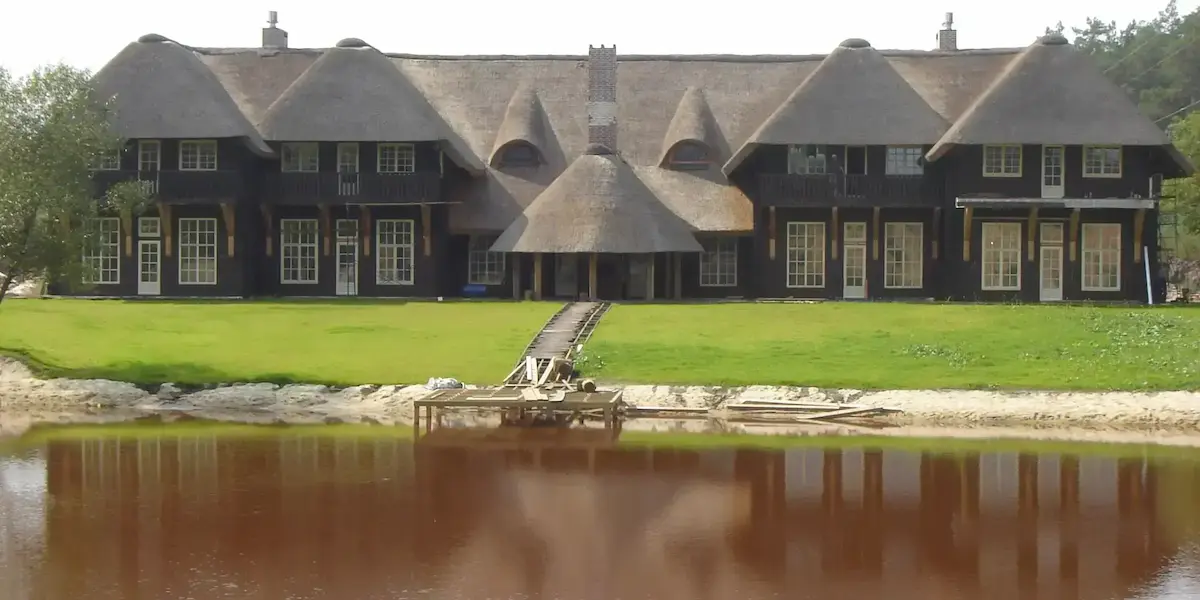
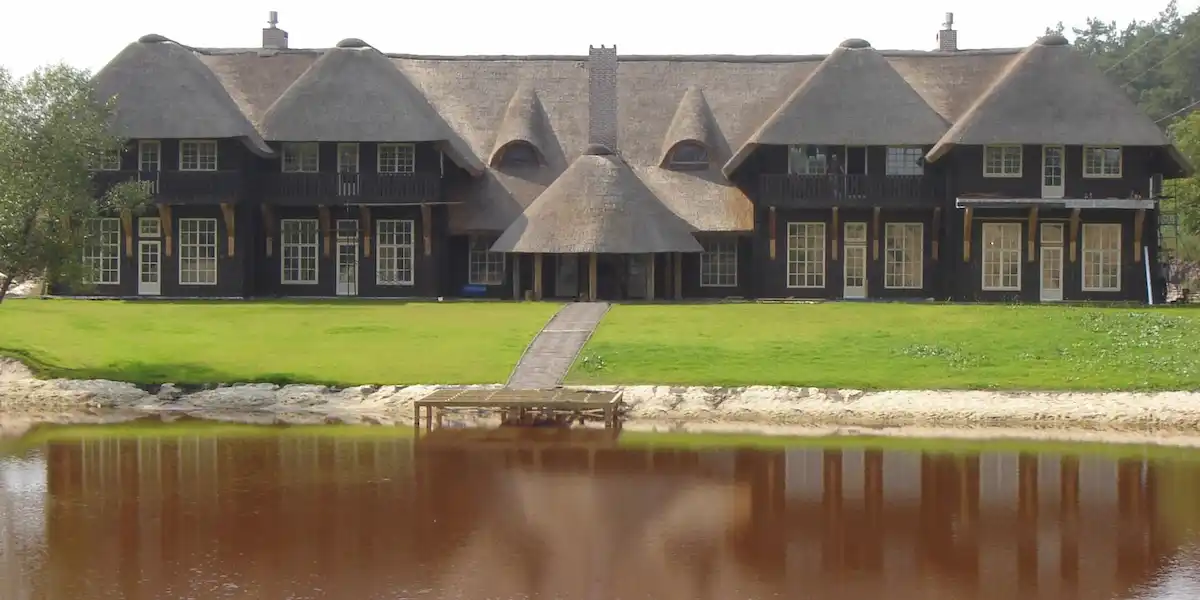
Нові img hero

diff --git a/css/style.css b/css/style.css
@@ -967,10 +967,6 @@ body.lock {
     height: 15px;
     width: 15px;
   }
-  /*.btn {
-     padding: 8px 15px;
-     font-size: 1em;
-  }*/
 }
 @media (max-width: 768px) {
   .section__services {
